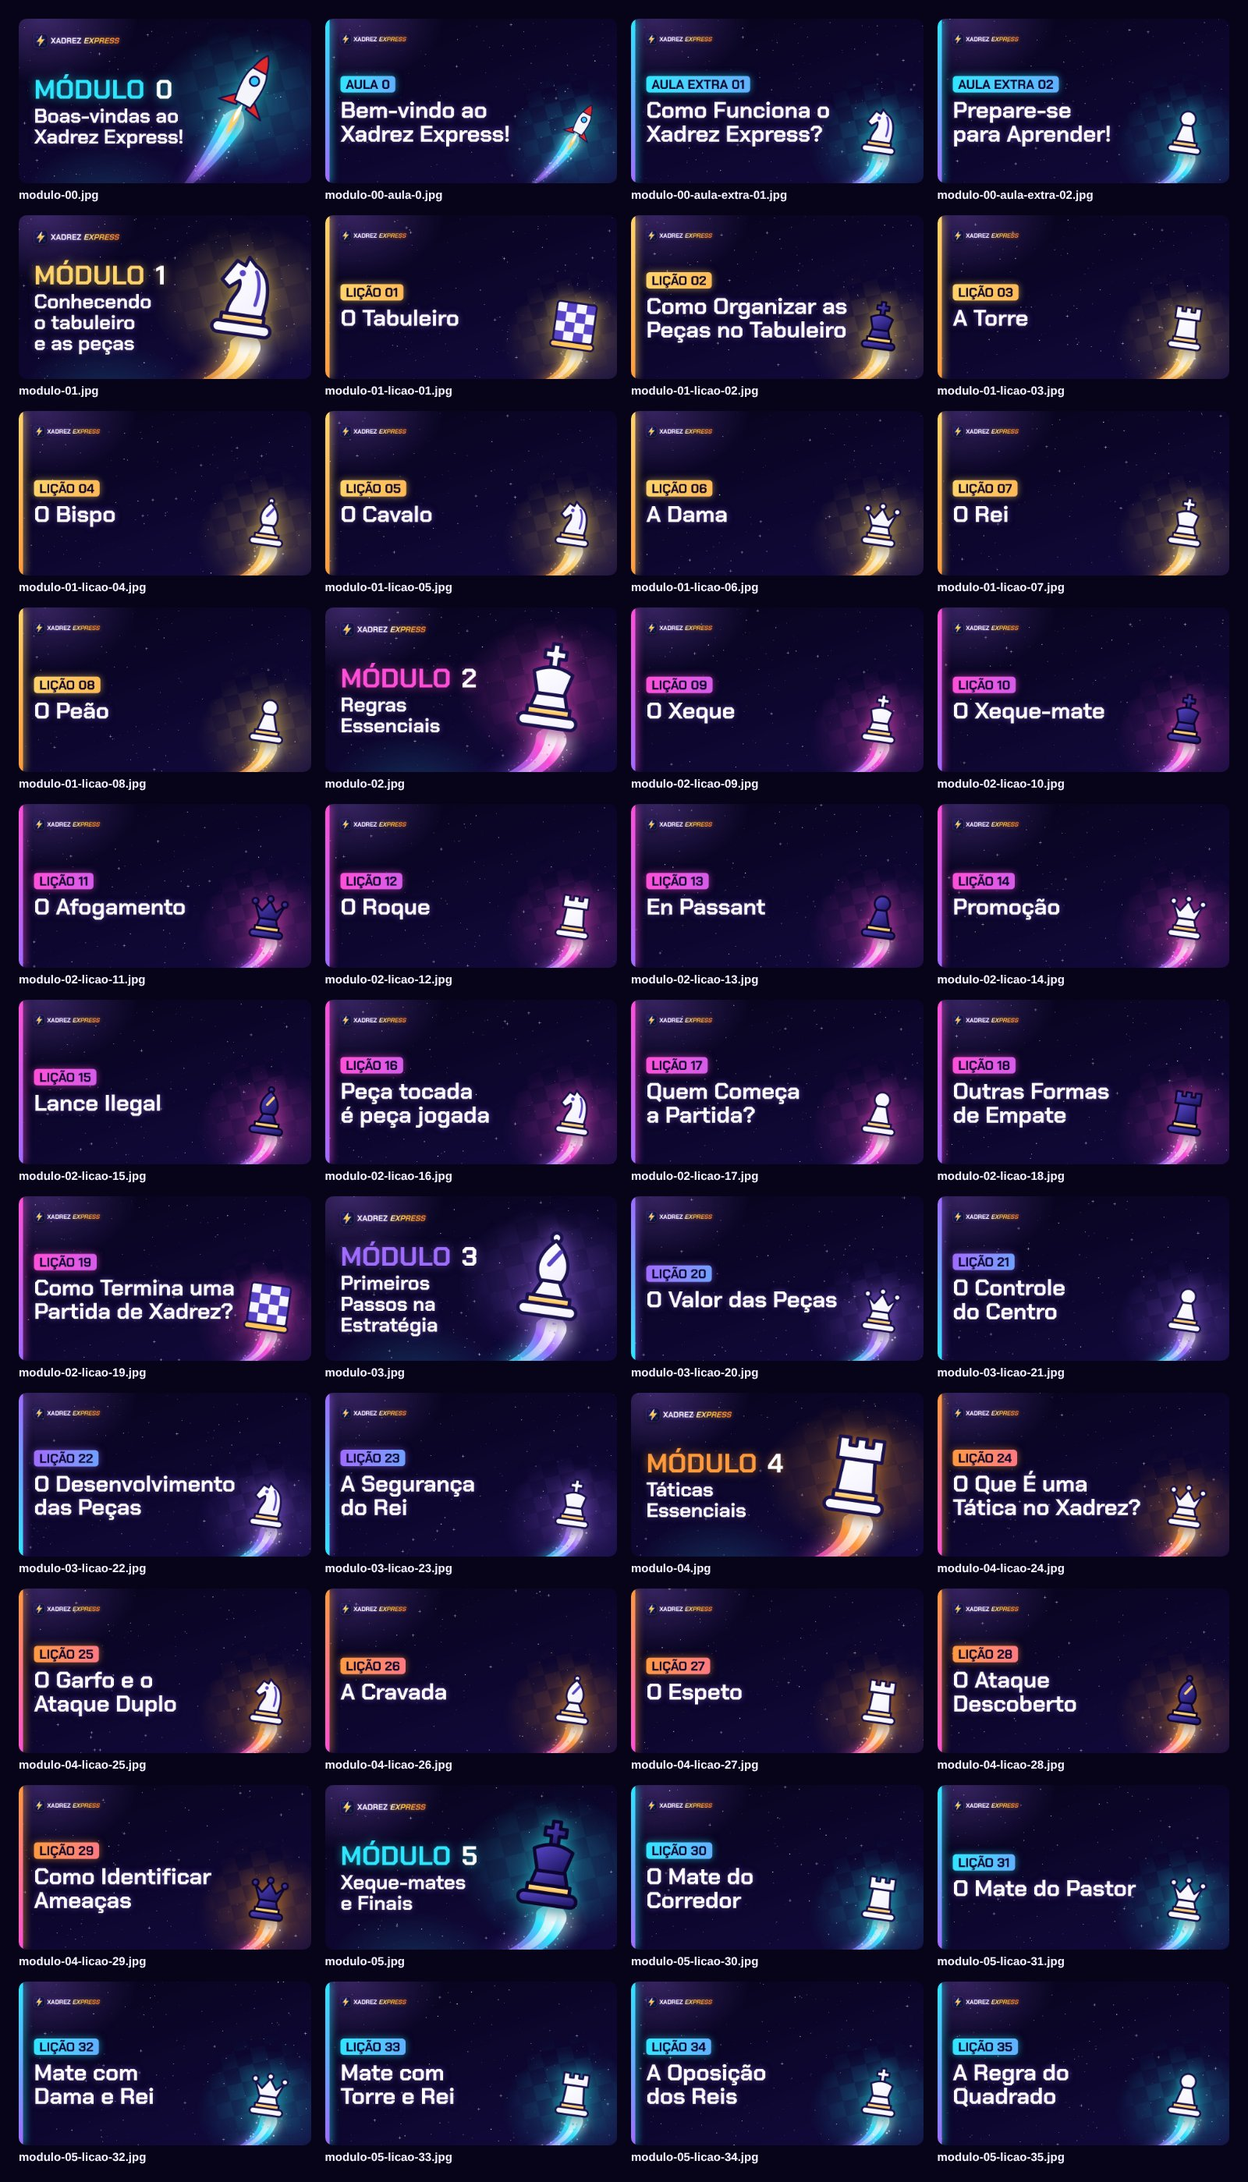
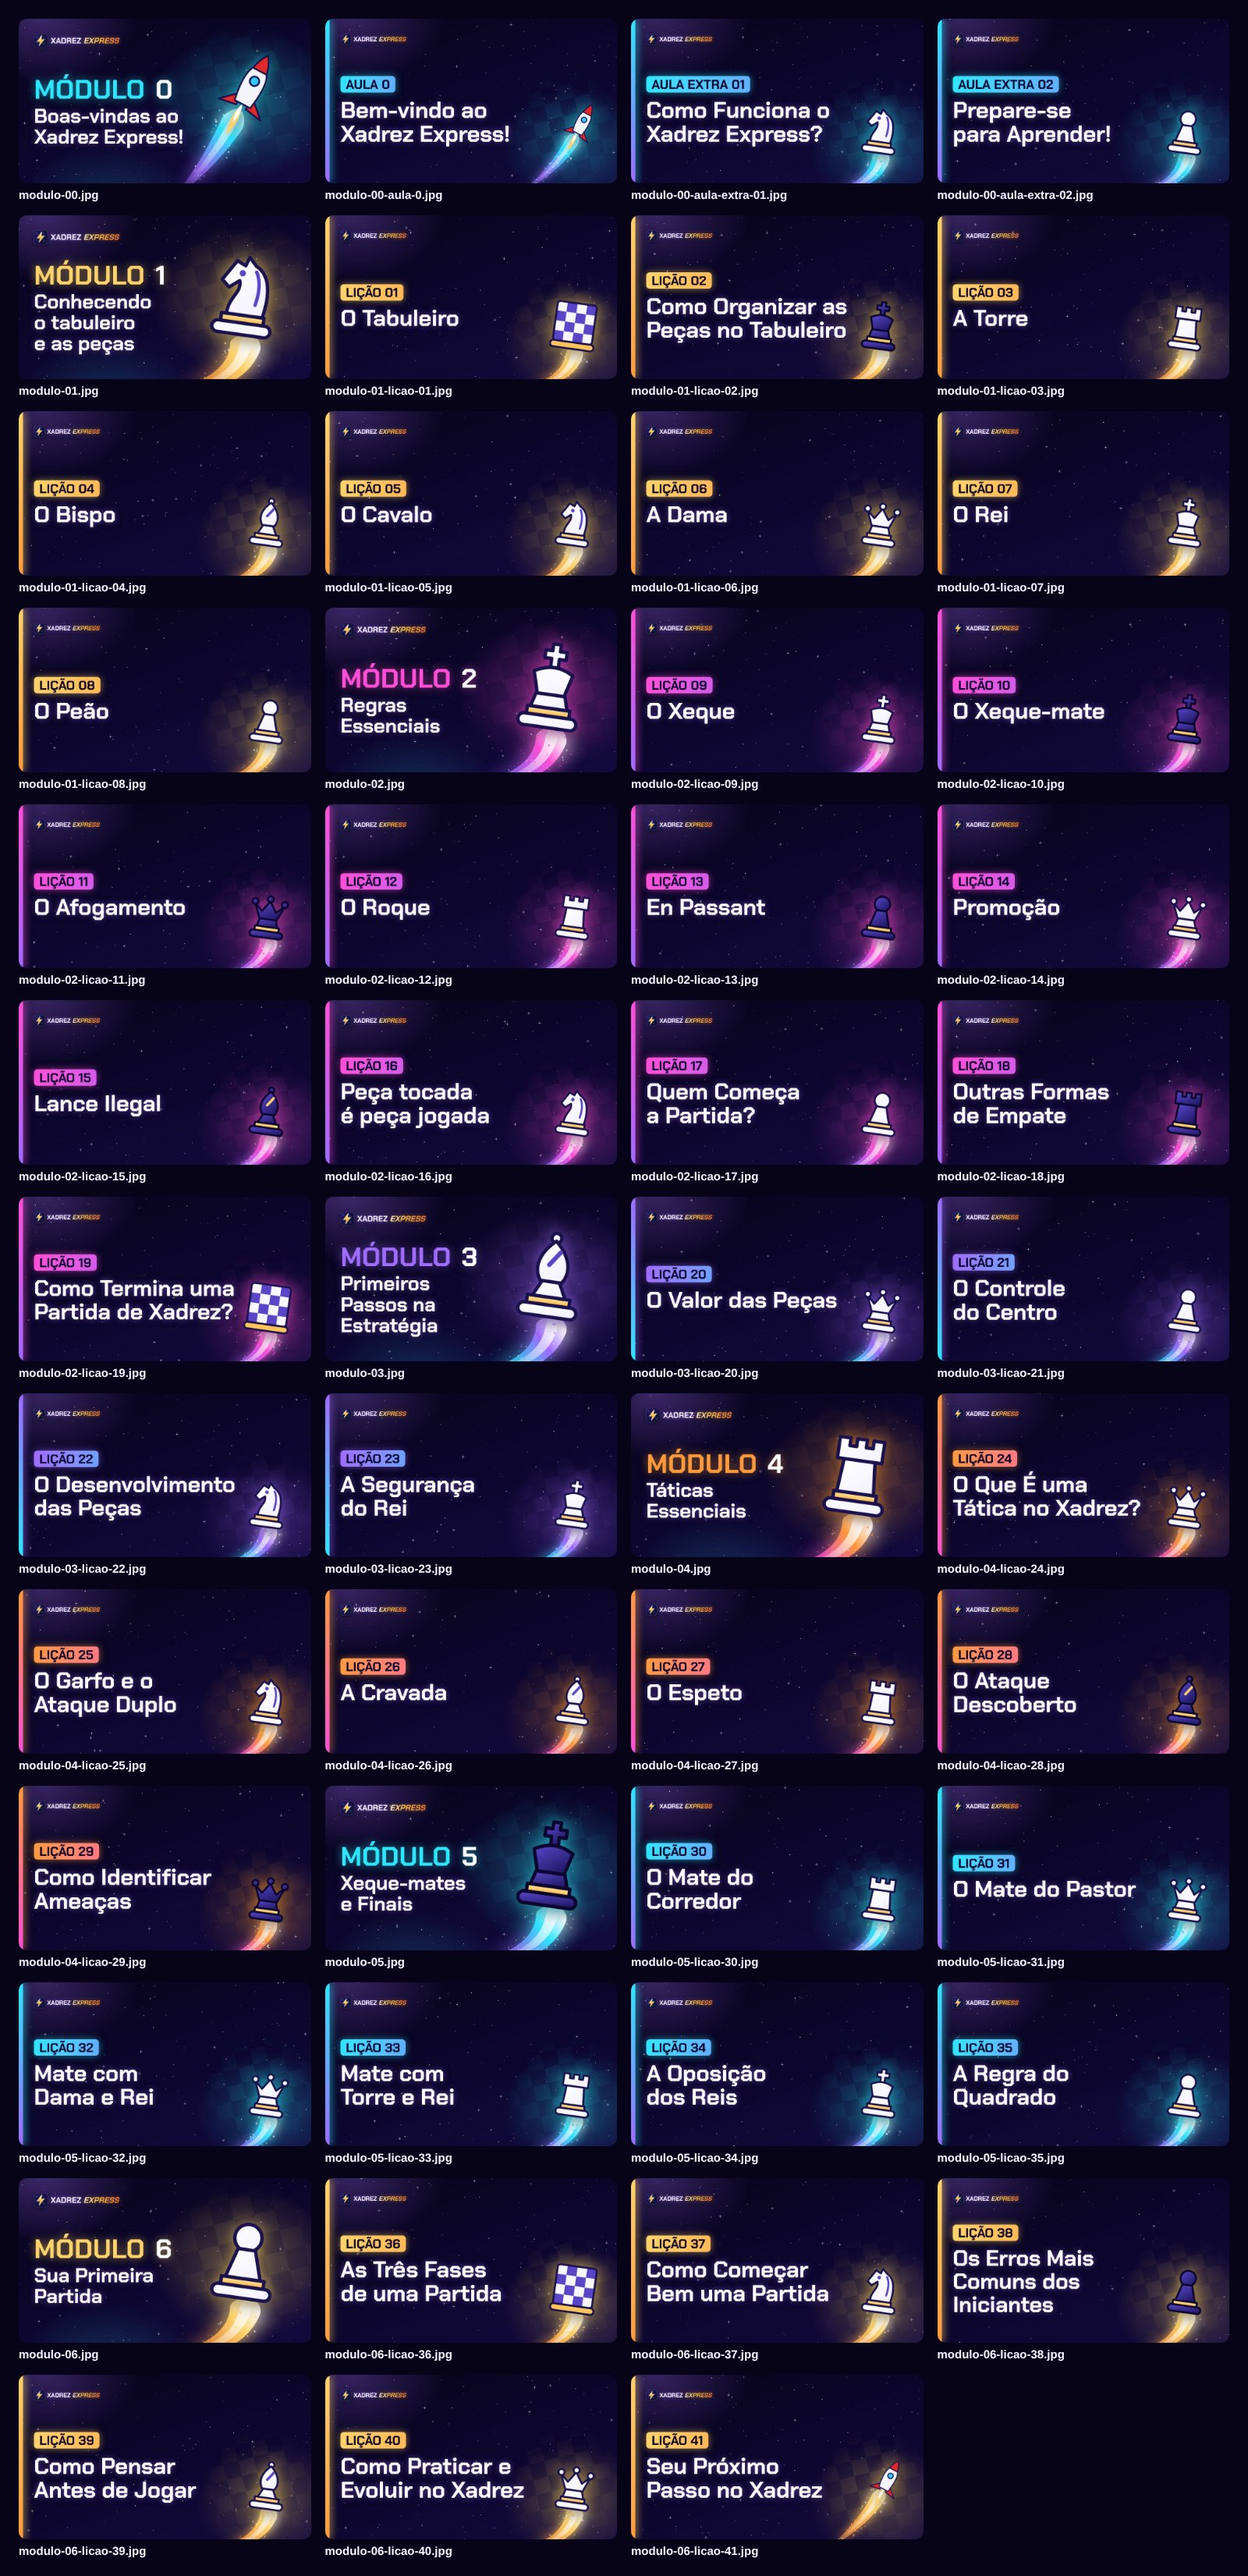
Capas do Módulo 6 (Sua Primeira Partida, lições 36 a 41)
Claude-Session: https://claude.ai/code/session_01TiCEz9v6sPBGKMhfiJviFX

diff --git a/capas/lista.js b/capas/lista.js
@@ -91,19 +91,17 @@ module.exports = [
       { rotulo: 'Lição 35', titulo: 'A Regra do Quadrado', peca: 'wp' },
     ],
   },
-  // A versão anterior do Módulo 5, guardada caso volte (por exemplo, como Módulo 6).
-  // Para usar: tire as barras do começo das linhas e acerte o número.
-  // {
-  //   numero: '5',
-  //   titulo: 'Sua Primeira Partida',
-  //   peca: 'wp',
-  //   aulas: [
-  //     { rotulo: 'Lição 30', titulo: 'As Três Fases de uma Partida', peca: 'tabuleiro' },
-  //     { rotulo: 'Lição 31', titulo: 'Como Começar Bem uma Partida', peca: 'wn' },
-  //     { rotulo: 'Lição 32', titulo: 'Os Erros Mais Comuns dos Iniciantes', peca: 'bp' },
-  //     { rotulo: 'Lição 33', titulo: 'Como Pensar Antes de Jogar', peca: 'wb' },
-  //     { rotulo: 'Lição 34', titulo: 'Como Praticar e Evoluir no Xadrez', peca: 'wq' },
-  //     { rotulo: 'Lição 35', titulo: 'Seu Próximo Passo no Xadrez', peca: 'foguete' },
-  //   ],
-  // },
+  {
+    numero: '6',
+    titulo: 'Sua Primeira Partida',
+    peca: 'wp',
+    aulas: [
+      { rotulo: 'Lição 36', titulo: 'As Três Fases de uma Partida', peca: 'tabuleiro' },
+      { rotulo: 'Lição 37', titulo: 'Como Começar Bem uma Partida', peca: 'wn' },
+      { rotulo: 'Lição 38', titulo: 'Os Erros Mais Comuns dos Iniciantes', peca: 'bp' },
+      { rotulo: 'Lição 39', titulo: 'Como Pensar Antes de Jogar', peca: 'wb' },
+      { rotulo: 'Lição 40', titulo: 'Como Praticar e Evoluir no Xadrez', peca: 'wq' },
+      { rotulo: 'Lição 41', titulo: 'Seu Próximo Passo no Xadrez', peca: 'foguete' },
+    ],
+  },
 ];
